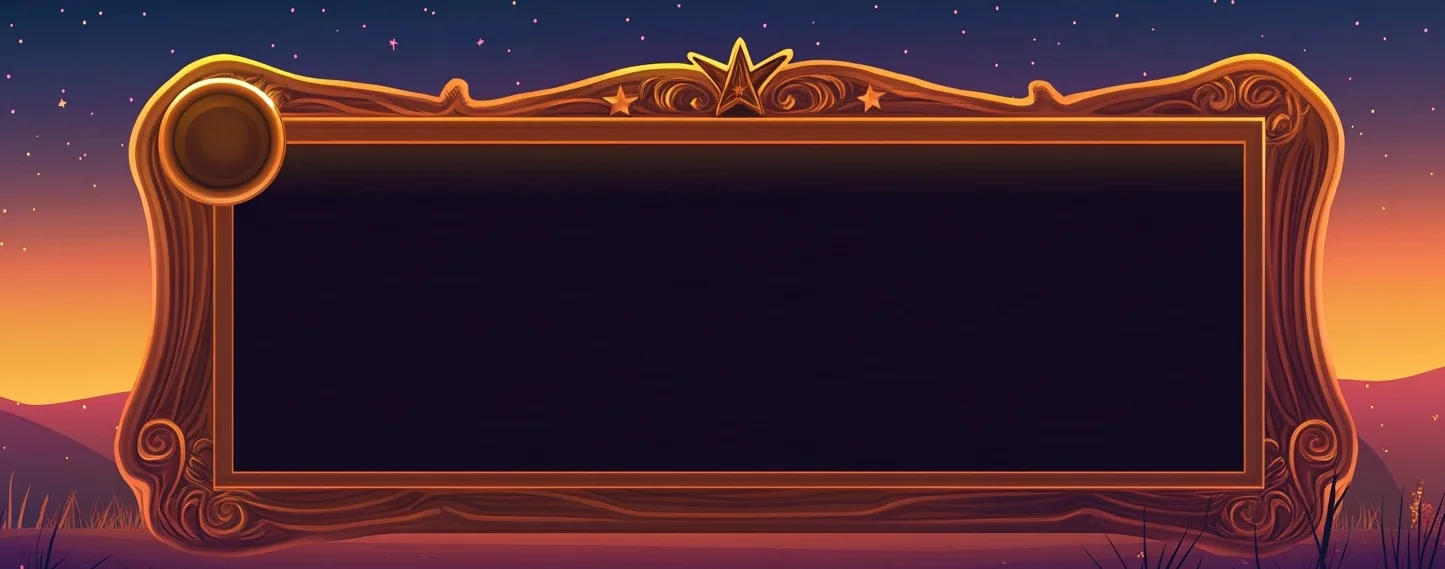
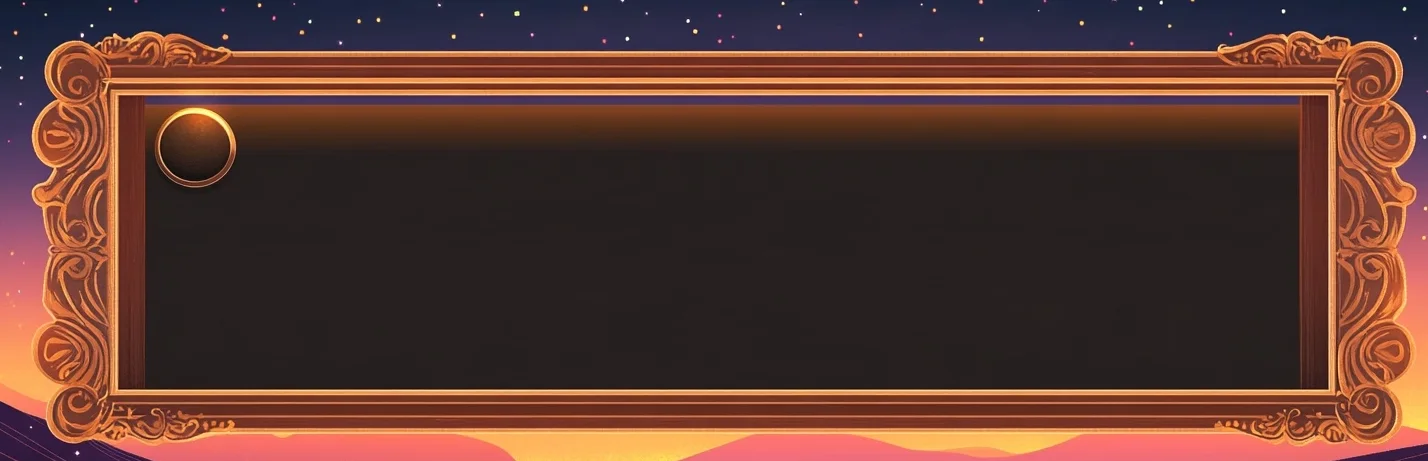
9/17 picks: common frame 4, epic frame 3, legendary frame 4 — rows re-cut to the picked frames; rare rectangular reroll blocked on lapsed MJ subscription (noted on page)

diff --git a/index.html b/index.html
@@ -270,15 +270,18 @@
   epic, a <b style="color:var(--c-legend)">glowing orange</b> legendary that breathes, sparks and shimmers. The first
   night's portrait plaques didn't fit this surface — they moved to §III. <b>9/15:</b> per Skylar, the rows now show
   the <b>frame-only cut</b> — "just the center part, not everything surrounding it" — the painted scenery trimmed to
-  the frame and its glow; the full scenic frames stand in the alternates as the record.</p>
+  the frame and its glow; the full scenic frames stand in the alternates as the record. <b>9/17, Skylar's frame
+  picks:</b> COMMON frame 4 · EPIC frame 3 · LEGENDARY frame 4 — the rows below wear them. RARE gets a fresh
+  "more rectangular" roll to match; ⚠ <b>blocked for now: the Midjourney account's subscription has lapsed</b>
+  (the imagine bar won't submit — "Let's Find Your Subscription") — the reroll fires the moment it's renewed.</p>
 
   <div class="stage">
     <div style="flex:0 0 auto;width:min(350px,100%);margin:0 auto">
       <div class="phone">
         <div class="act">ACT I · THE MEADOW SKY</div>
         <div class="choose">— CHOOSE A SIGIL —</div>
-        <div class="sigrow" style="aspect-ratio:1445/569"><img src="art/cut_common.webp" alt="common row — carved wood and bronze, frame only">
-          <div class="rowpanel ink-common" style="left:18.6%;top:27.8%;width:64%;height:49.4%">
+        <div class="sigrow" style="aspect-ratio:1428/461"><img src="art/cut_common.webp" alt="common row — carved wood and bronze, frame only">
+          <div class="rowpanel ink-common" style="left:10%;top:21%;width:80%;height:60%">
             <div class="roundel"><span>❦</span></div>
             <div class="rowtx"><div class="nm">EMBER QUILL</div><div class="ds">Every word deals +4 damage.</div></div>
           </div></div>
@@ -310,8 +313,8 @@
   <p class="sub" style="font-size:13px">Real game text; the one sigil in the book whose ladder touches every grade.
   The legendary row breathes, sparks and shimmers — build note: that motion is re-added in-engine, never baked.</p>
   <div class="bigrows">
-    <div class="sigrow" style="aspect-ratio:1445/569"><img src="art/cut_common.webp" alt="">
-      <div class="rowpanel ink-common" style="left:18.6%;top:27.8%;width:64%;height:49.4%">
+    <div class="sigrow" style="aspect-ratio:1428/461"><img src="art/cut_common.webp" alt="">
+      <div class="rowpanel ink-common" style="left:10%;top:21%;width:80%;height:60%">
         <div class="roundel"><span>❦</span></div>
         <div class="rowtx"><div class="nm">EMBER QUILL</div><div class="gr">COMMON · I</div><div class="ds">Every word deals +4 damage.</div></div>
       </div></div>
@@ -320,8 +323,8 @@
         <div class="roundel"><span>❦</span></div>
         <div class="rowtx"><div class="nm">EMBER QUILL</div><div class="gr">RARE · II</div><div class="ds">Every word deals +6 damage.</div></div>
       </div></div>
-    <div class="sigrow" style="aspect-ratio:1344/633"><img src="art/cut_epic.webp" alt="">
-      <div class="rowpanel ink-epic" style="left:17.5%;top:34.1%;width:62.5%;height:46.6%">
+    <div class="sigrow" style="aspect-ratio:1344/540"><img src="art/cut_epic.webp" alt="">
+      <div class="rowpanel ink-epic" style="left:12%;top:26%;width:76%;height:56%">
         <div class="roundel"><span>❦</span></div>
         <div class="rowtx"><div class="nm">EMBER QUILL</div><div class="gr">EPIC · III</div><div class="ds">Every word deals +8 damage.</div></div>
       </div></div>
@@ -330,7 +333,8 @@
         <div class="roundel"><span>❦</span></div>
         <div class="rowtx"><div class="nm">EMBER QUILL</div><div class="gr">LEGENDARY · IV</div><div class="ds">Every word deals +11 damage.</div></div>
       </div></div>
-    <div class="cap">THE FRAME-ONLY CUTS AT READING SIZE (Skylar 9/15: "just the center part") — PICK FRAMES BELOW</div>
+    <div class="cap">THE FRAME-ONLY CUTS, WEARING THE 9/17 PICKS (common 4 · epic 3 · legendary 4) — RARE'S
+    RECTANGULAR REROLL AWAITS THE MJ RENEWAL</div>
   </div>
 
   <h3>PICK EACH ROW — 4 FRAMES PER RARITY (chip = your pick)</h3>
@@ -509,7 +513,9 @@ document.addEventListener('click',function(e){
   state[g]=(state[g]===v?null:v); save(); paint();
 });
 /* defaults: the mock's picks, first visit only */
-if(!('sky' in state)){state.sky='d2';state.common='2';state.rare='4';state.epic='2';state.legendary='4';save();}
+if(!('sky' in state)){state.sky='d2';state.common='4';state.rare='4';state.epic='3';state.legendary='4';save();}
+/* Skylar's 9/17 picks override any earlier defaults on this device */
+if(!state.picked917){state.common='4';state.epic='3';state.legendary='4';state.picked917=1;save();}
 paint();
 var nb=document.getElementById('noteBox');
 nb.value=state.note||'';
